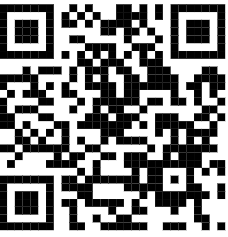
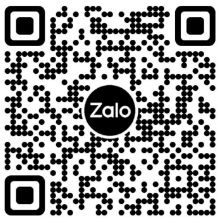
Update Zalo group QR image across web and Telegram bot

diff --git a/index.html b/index.html
@@ -1233,7 +1233,7 @@
                 </div>
                 <div class="flex items-center gap-4 shrink-0 z-10">
                     <div class="bg-white p-2 rounded-2xl shadow-lg border border-white/30 hidden sm:block cursor-pointer hover:scale-105 transition-all text-center" onclick="switchMainTab('zalo_group')" title="Bấm để xem mã QR phóng to">
-                        <img src="/zalo_group_qr.png" loading="lazy" alt="Mã QR Nhóm Zalo" class="w-20 h-20 object-contain rounded-xl select-none" />
+                        <img src="/zalo_group_qr.png?v=2" loading="lazy" alt="Mã QR Nhóm Zalo" class="w-20 h-20 object-contain rounded-xl select-none" />
                         <span class="text-[9px] font-bold text-blue-800 block mt-0.5">Quét bằng Zalo</span>
                     </div>
                     <div class="flex flex-col gap-2">
@@ -2500,7 +2500,7 @@
                     <div class="lg:col-span-5 flex flex-col items-center">
                         <div class="p-5 bg-gradient-to-b from-[#FFF5DC] to-[#FFECC0] rounded-[32px] border-2 border-[#FFD24C] shadow-xl text-center relative group w-full max-w-xs">
                             <div class="bg-white p-3 rounded-2xl shadow-inner border border-[#E8D8B0] inline-block w-full">
-                                <img id="zaloGroupQrImg" src="/zalo_group_qr.png" loading="lazy" alt="Mã QR Nhóm Zalo AloPremium" class="w-full aspect-square object-contain rounded-xl mx-auto select-none" />
+                                <img id="zaloGroupQrImg" src="/zalo_group_qr.png?v=2" loading="lazy" alt="Mã QR Nhóm Zalo AloPremium" class="w-full aspect-square object-contain rounded-xl mx-auto select-none" />
                             </div>
                             <div class="mt-3.5 flex items-center justify-center gap-1.5 text-xs font-bold text-[#1E1B18]">
                                 <span class="text-blue-600 font-black">Zalo</span> • Quét mã để vào nhóm
@@ -2729,7 +2729,7 @@
                         <div class="flex flex-col items-center gap-2.5 p-3 rounded-xl bg-white border border-blue-100 shadow-xs">
                             <div class="flex items-center gap-3 w-full">
                                 <div class="bg-white p-1.5 rounded-xl border border-blue-200 shrink-0 shadow-xs">
-                                    <img id="successZaloQrImg" src="/zalo_group_qr.png" loading="lazy" alt="Mã QR Nhóm Zalo AloPremium" class="w-24 h-24 object-contain rounded-lg select-none" />
+                                    <img id="successZaloQrImg" src="/zalo_group_qr.png?v=2" loading="lazy" alt="Mã QR Nhóm Zalo AloPremium" class="w-24 h-24 object-contain rounded-lg select-none" />
                                 </div>
                                 <div class="flex-1 min-w-0 space-y-1.5 text-left">
                                     <p class="text-[11px] font-bold text-blue-800 leading-snug">
@@ -4395,7 +4395,7 @@
         // Tải ảnh mã QR nhóm Zalo về máy
         function downloadZaloQr() {
             const a = document.createElement('a');
-            a.href = window.zaloGroupQrUrl || '/zalo_group_qr.png';
+            a.href = window.zaloGroupQrUrl || '/zalo_group_qr.png?v=2';
             a.download = 'QR_Nhom_Zalo_AloPremium.png';
             document.body.appendChild(a);
             a.click();
@@ -4405,7 +4405,7 @@
 
         function syncZaloGroupElements(groupUrl, groupQr) {
             const targetUrl = groupUrl || window.zaloGroupUrl || 'https://zalo.me/0345222802';
-            const targetQr = groupQr || window.zaloGroupQrUrl || '/zalo_group_qr.png';
+            const targetQr = groupQr || window.zaloGroupQrUrl || '/zalo_group_qr.png?v=2';
             ['btnJoinZaloGroup', 'btnSuccessJoinZalo', 'successZaloLinkText'].forEach(id => {
                 const el = document.getElementById(id);
                 if (el) el.href = targetUrl;

diff --git a/web_server.py b/web_server.py
@@ -1003,7 +1003,7 @@ class WebAppHandler(BaseHTTPRequestHandler):
                 "products": config.PRODUCTS,
                 "banner": db.get_banner_config(),
                 "zalo_group_url": getattr(config, "ZALO_GROUP_URL", "").strip(),
-                "zalo_group_qr": "/zalo_group_qr.png",
+                "zalo_group_qr": "/zalo_group_qr.png?v=2",
                 "support_phone": getattr(config, "SUPPORT_PHONE", "0345222802"),
                 "support_telegram": getattr(config, "SUPPORT_TELEGRAM", "https://t.me/nguyennhuquynh28"),
                 "bank_id": getattr(config, "BANK_ID", "TPB"),
